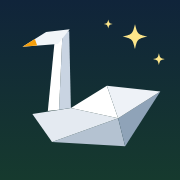
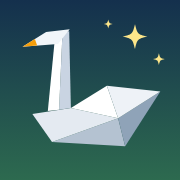
fix(brand): a green night sky that reads as green (#114)
The mark's sky ran from navy (#10243a) into a green so dark (#163a2e)
that it read as black. On the dark page background it measured 1.36:1,
so the tile's edge vanished, and beside the app's green buttons the
mark looked like it belonged to another brand.

The bottom of the sky is now the app's own green, #2d6a4f
(--color-auth-button): 2.65:1 on the dark background, and the green of
every primary action. The top stays a night navy, lifted slightly to
#14304d to meet it; the stars keep 10.8:1 against it, and the white
faces of the swan 6.4:1 against the green. Same drawing, same "Noite do
Cisne" concept, only the two stops move.

brand-mark.ts and public/favicon.svg change together (BrandMark.test
fails if they drift), and the four PNG icons were regenerated from the
SVG with scripts/render-brand-icons.mjs.

diff --git a/src/shared/brand-mark.ts b/src/shared/brand-mark.ts
@@ -5,8 +5,15 @@
  * (`scripts/render-brand-icons.mjs`). `BrandMark.test.tsx` fails if the two drift apart.
  */
 
-/** The night sky, top to bottom. */
-export const BRAND_MARK_SKY = ['#10243a', '#163a2e'] as const
+/**
+ * The night sky, top to bottom: navy into the app's own green (`--color-auth-button`).
+ *
+ * The green used to be #163a2e, which read as black: on the dark page background it measured
+ * 1.36:1, so the tile's edge disappeared, and next to the green buttons the mark looked like a
+ * different brand. #2d6a4f is 2.65:1 there and is the green of every primary action. The top stays
+ * a night navy, lifted slightly to meet it, and the stars keep 10.8:1 against it.
+ */
+export const BRAND_MARK_SKY = ['#14304d', '#2d6a4f'] as const
 
 /** Back to front: body, tail, the two faces of the wing, the neck, the head, the bill. */
 export const BRAND_MARK_FACES = [
